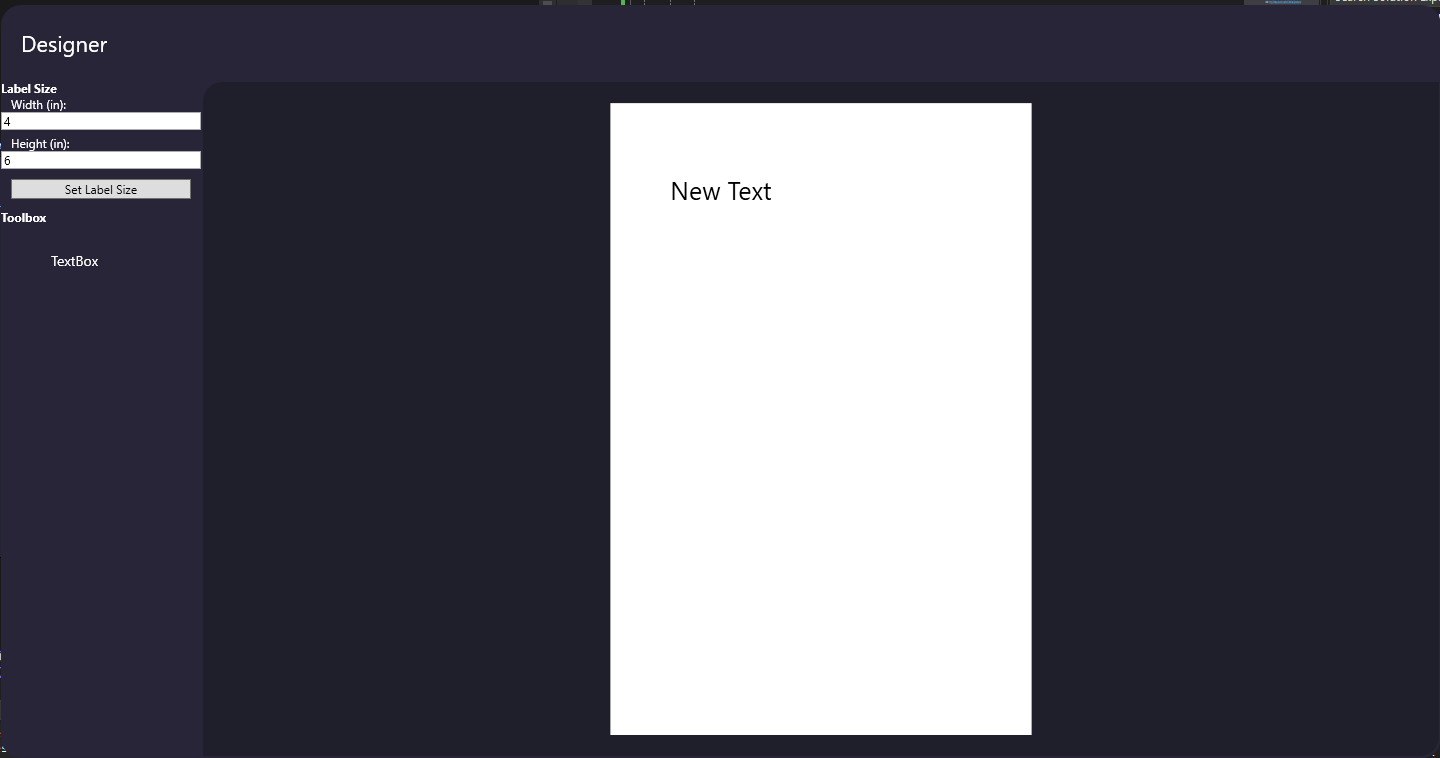
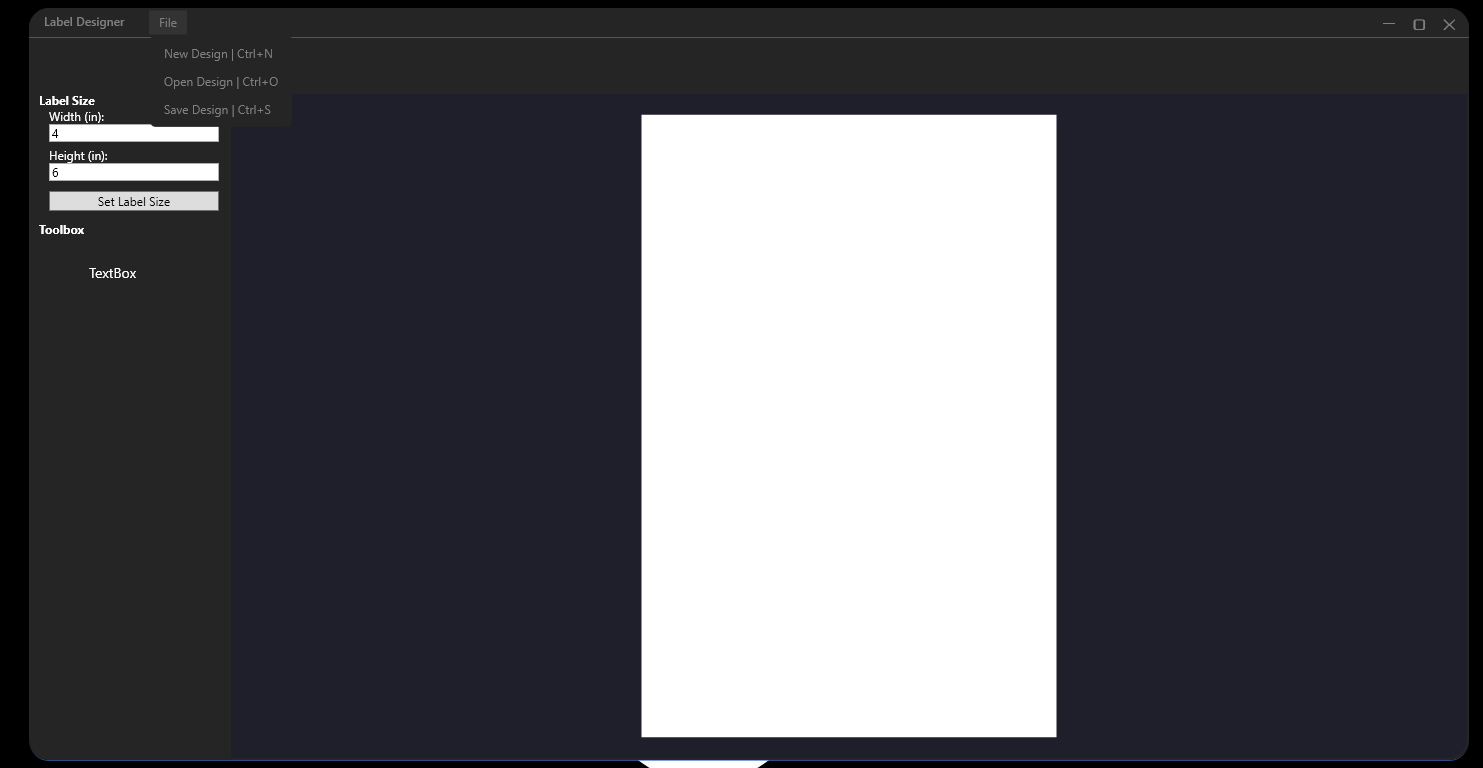
Fixed the bottom curve in the main window and updated readme

Changed region(s): [[0.0, 0.0, 1.0, 1.0], [0.4688, 0.2427, 0.5312, 0.2731]]

diff --git a/LabelDesigner/MVVM/View/MainWindow.xaml b/LabelDesigner/MVVM/View/MainWindow.xaml
@@ -14,7 +14,7 @@
         WindowStartupLocation="CenterScreen">
     <Border Grid.ColumnSpan="2"
             Background="#252525"
-            CornerRadius="20,20,0,0"
+            CornerRadius="20,20,20,20"
             BorderBrush="#AA4472C4"
             BorderThickness="0,0,0,1">
         <Grid>
